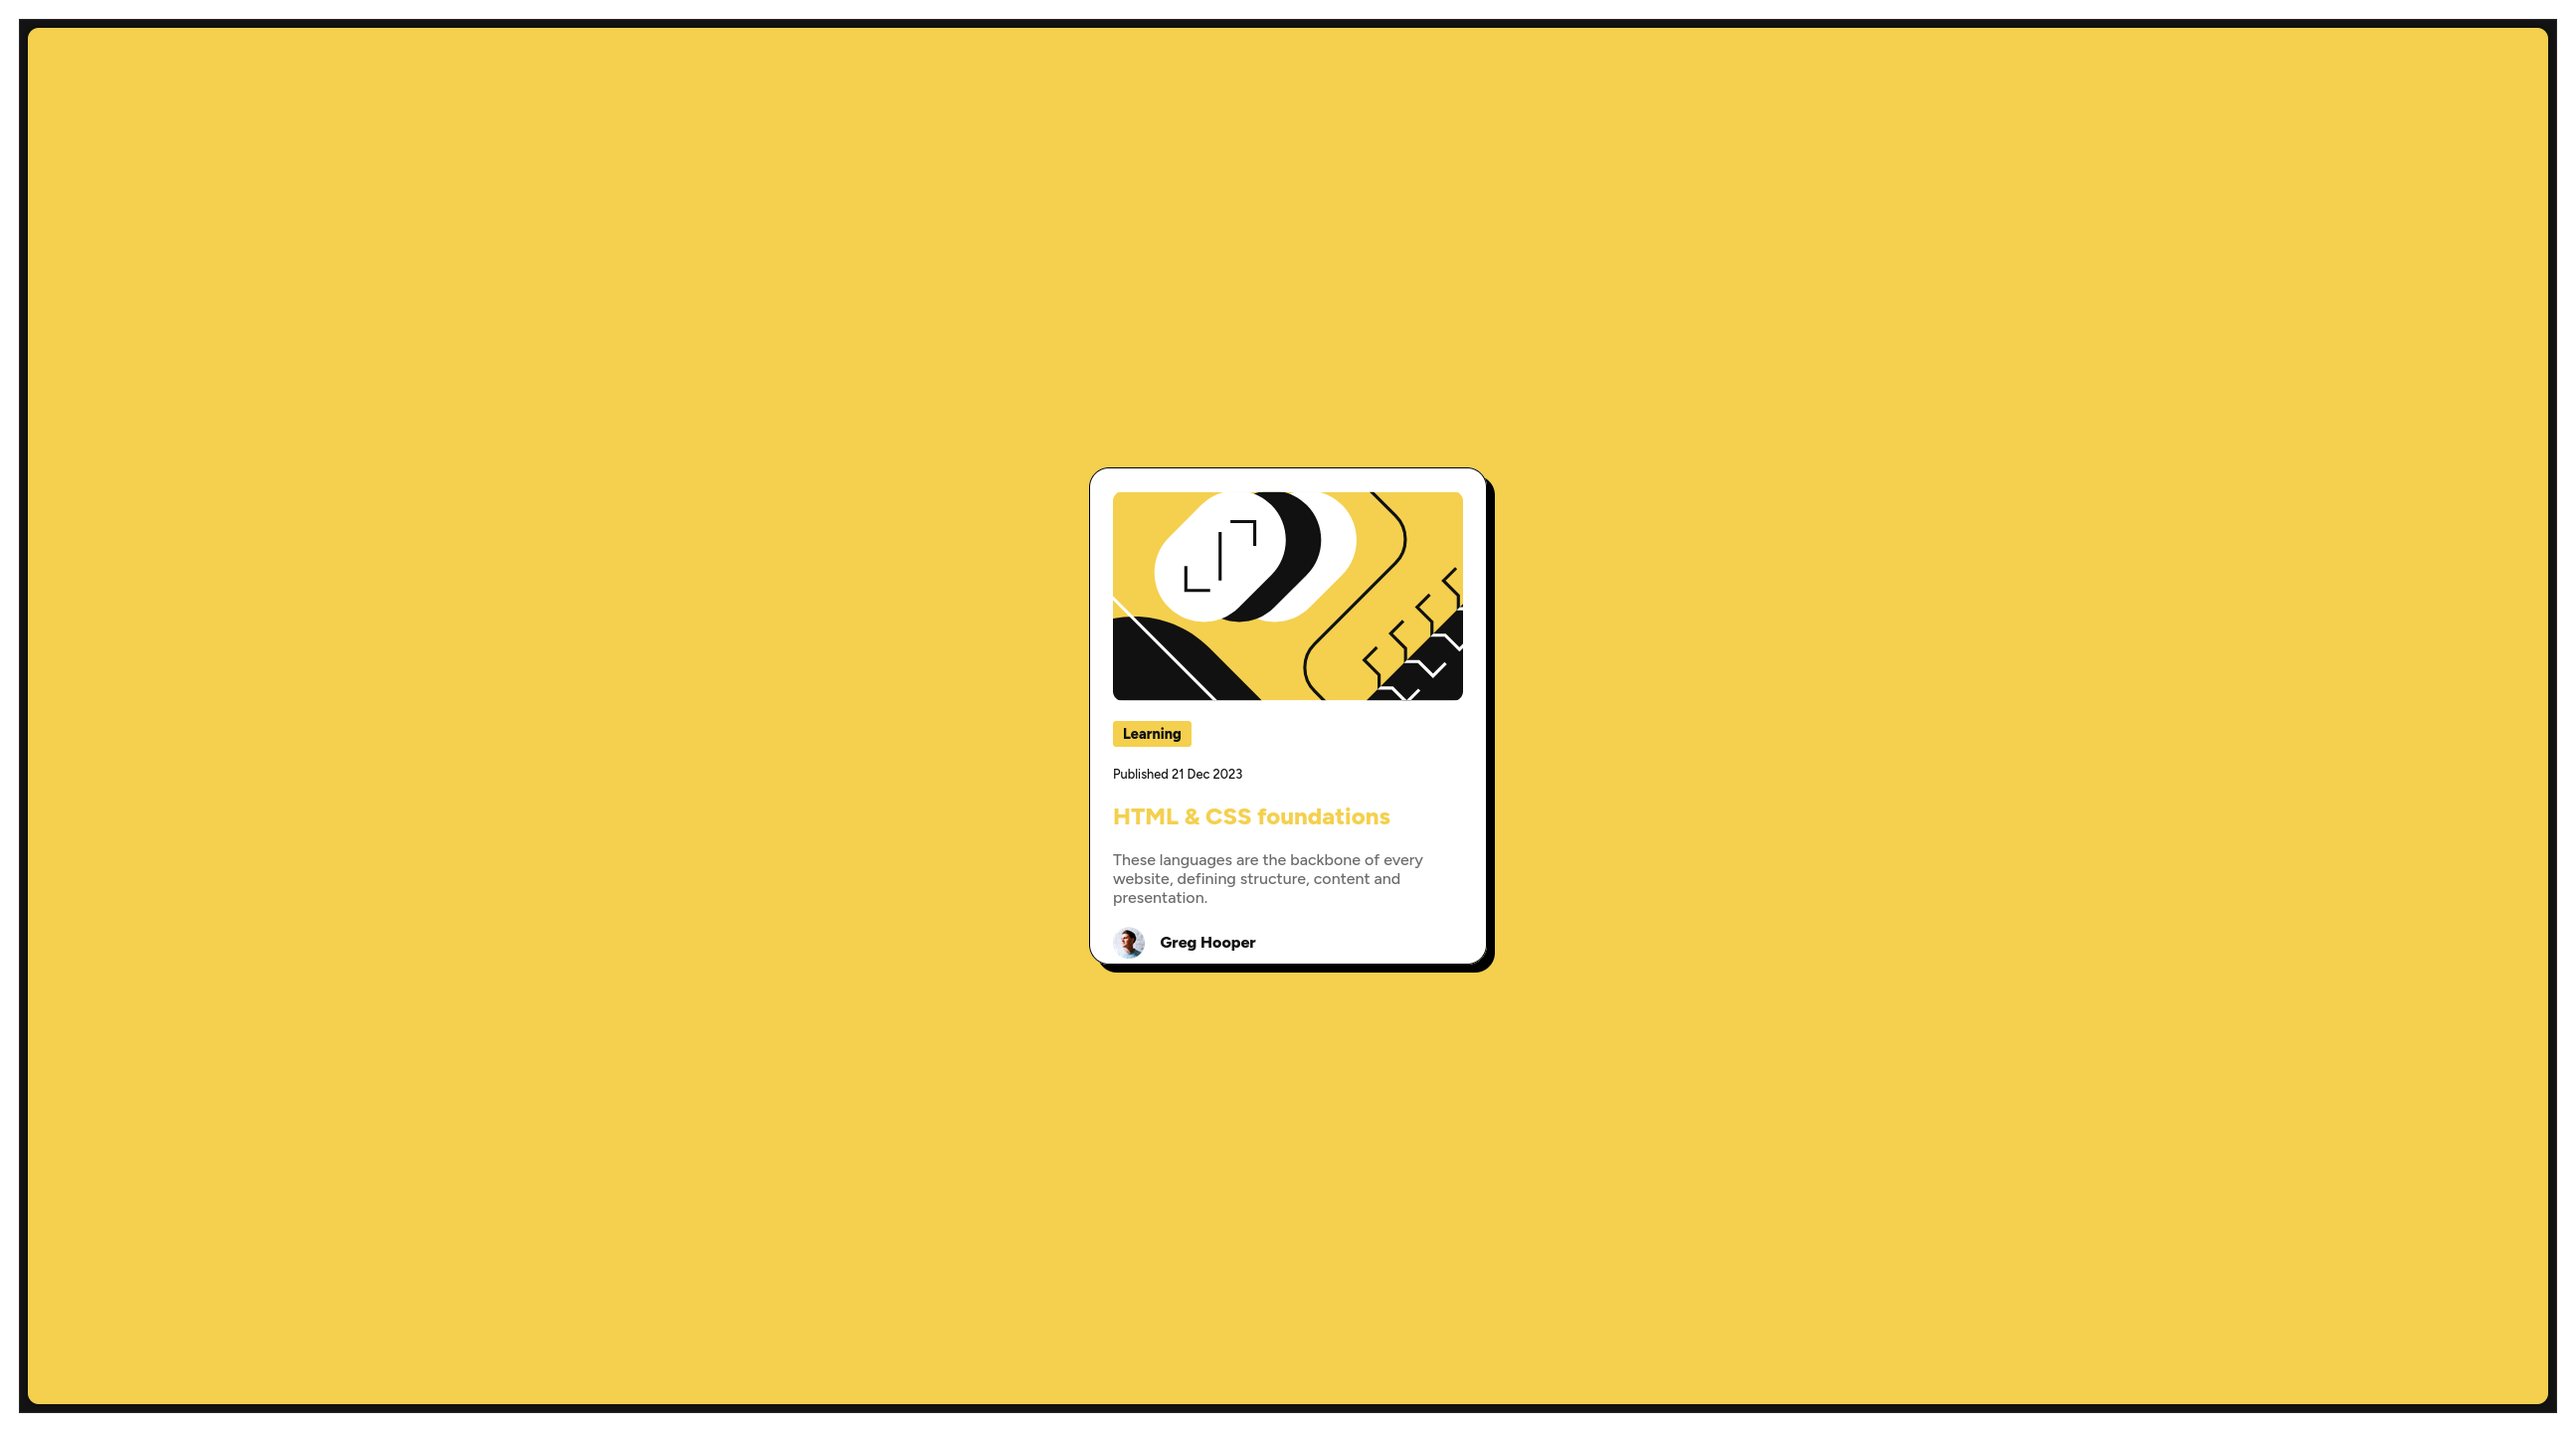
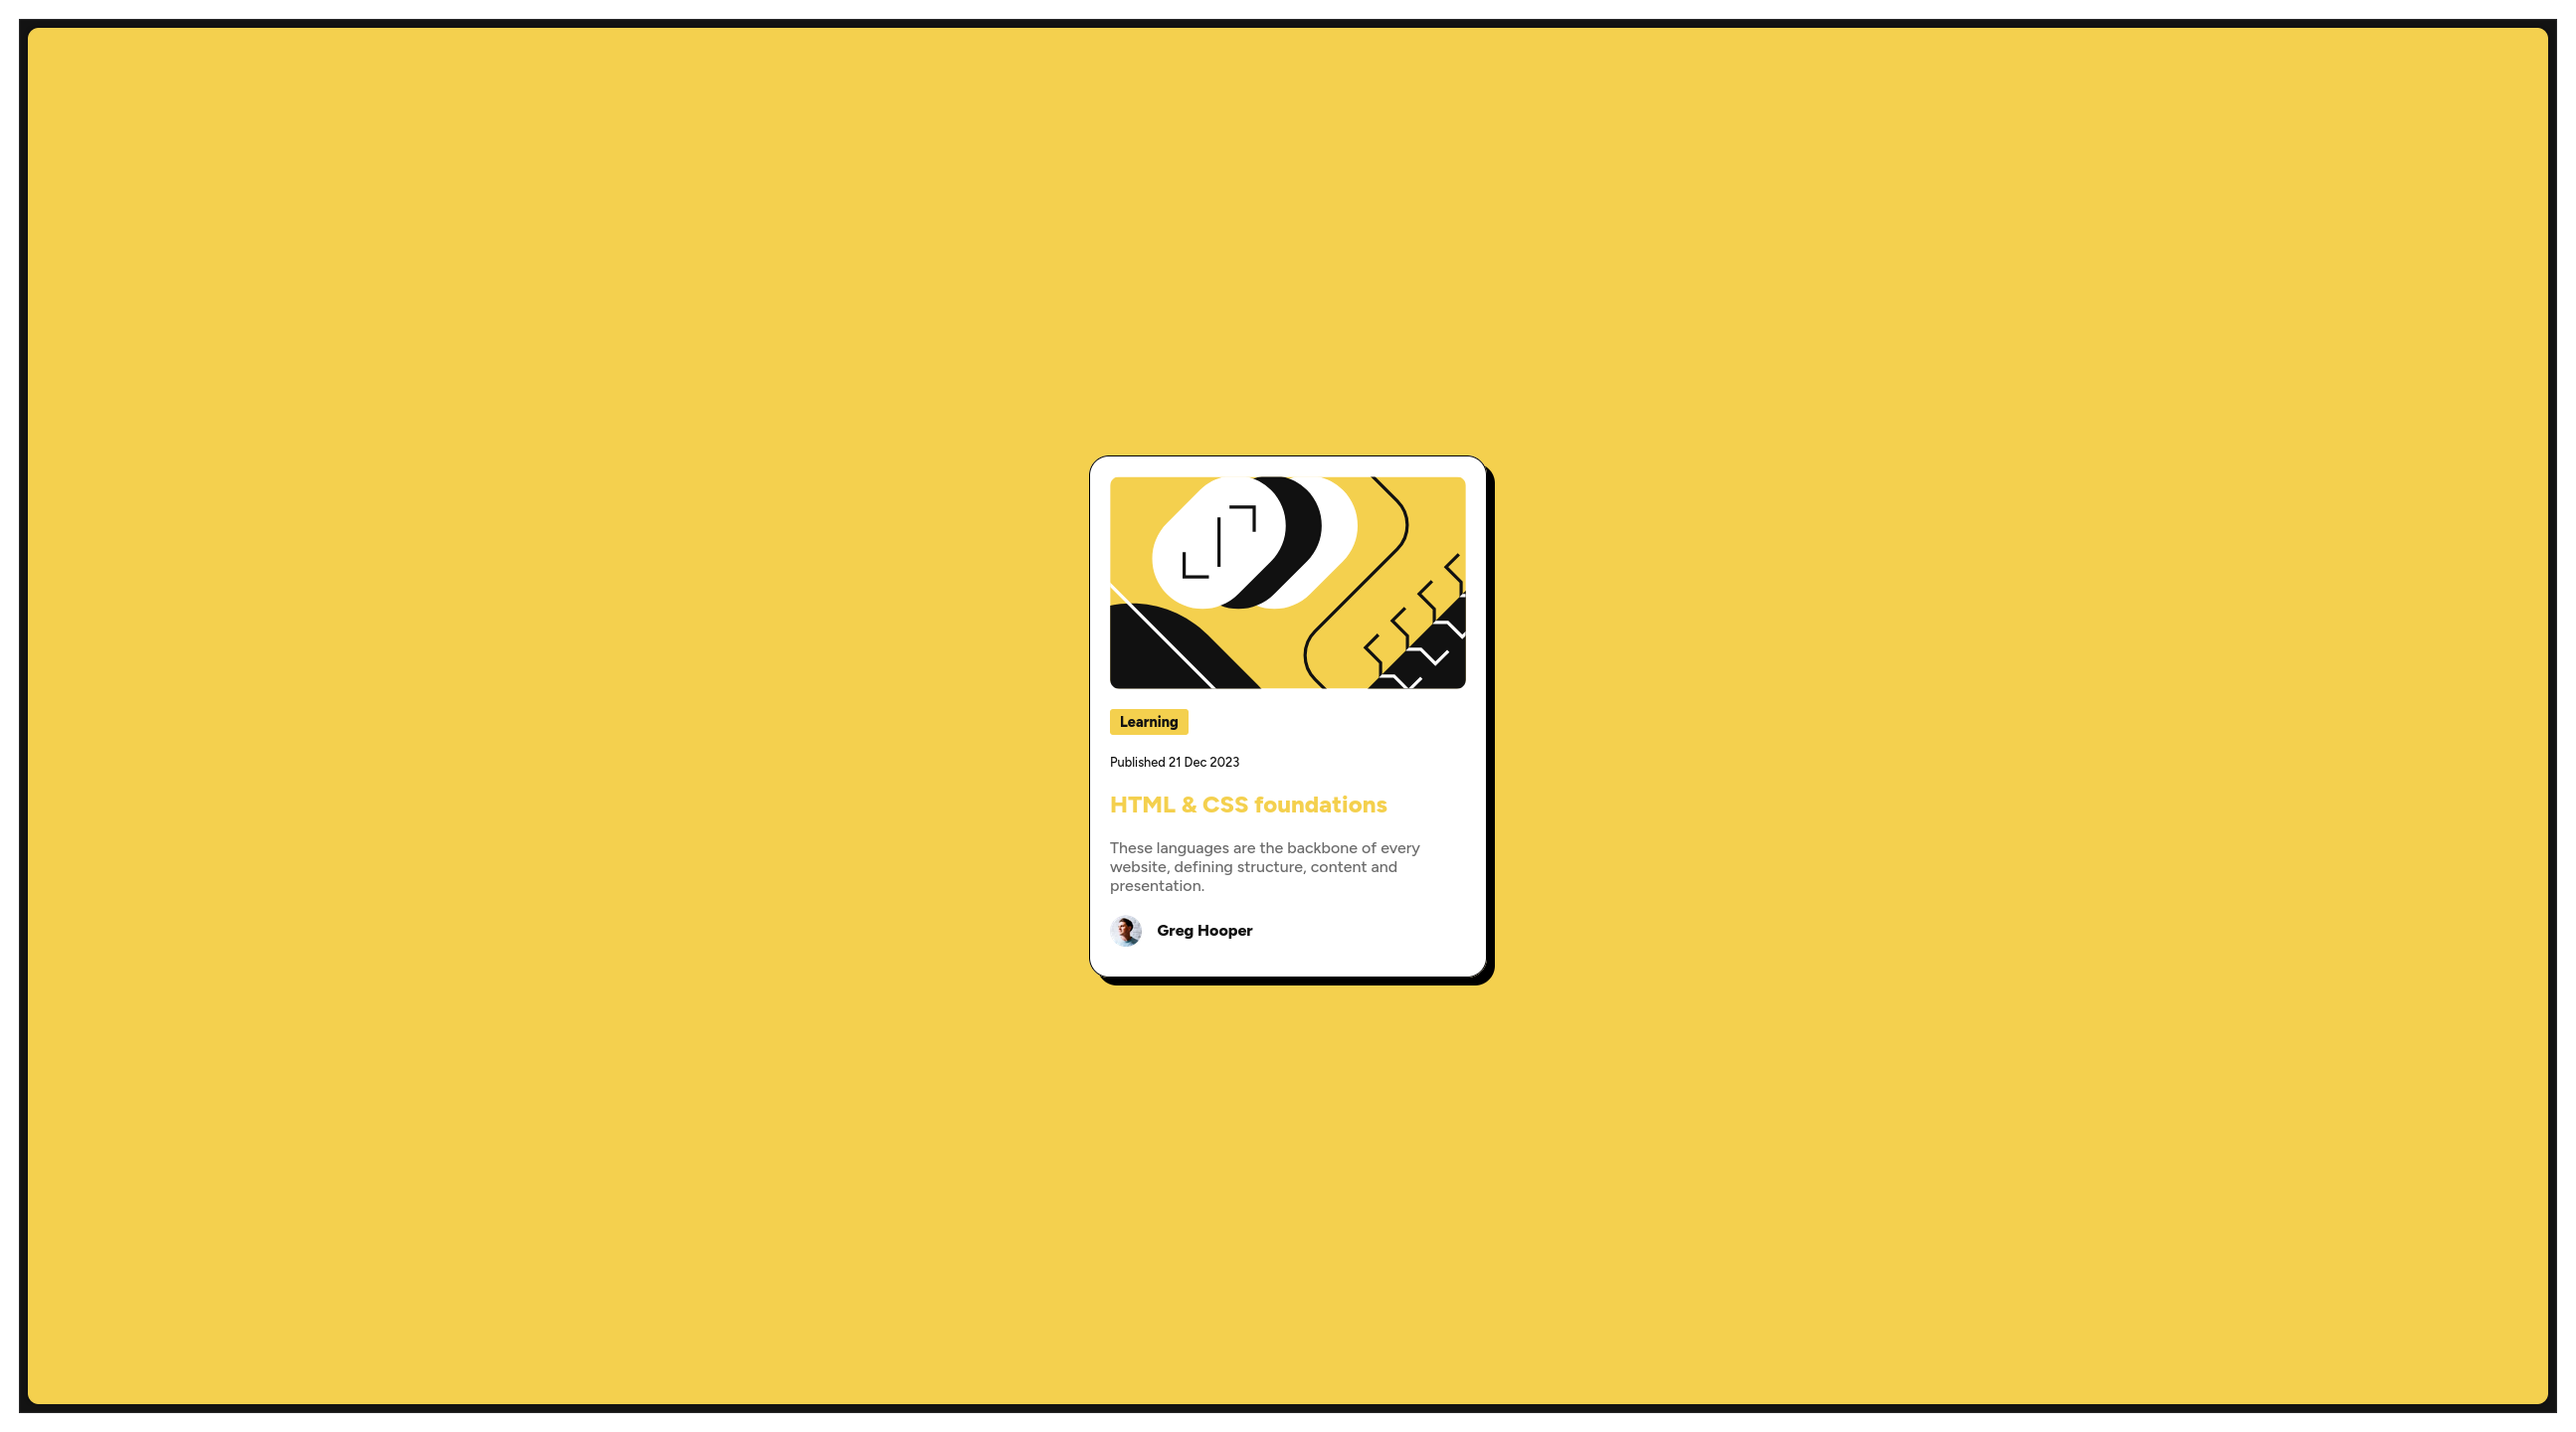
added more padding to the article

Changed region(s): [[0.4015, 0.3125, 0.5869, 0.6875]]

diff --git a/style.css b/style.css
@@ -31,9 +31,9 @@ main {
 
 article {
 	background-color: var(--white);
-	height: 500px;
+	height: 525px;
 	width: 400px;
-	padding: 23px;
+	padding: 20px;
 	border-radius: 20px;
 	border: 1px solid black;
 	box-shadow: 8px 8px 0 black;
